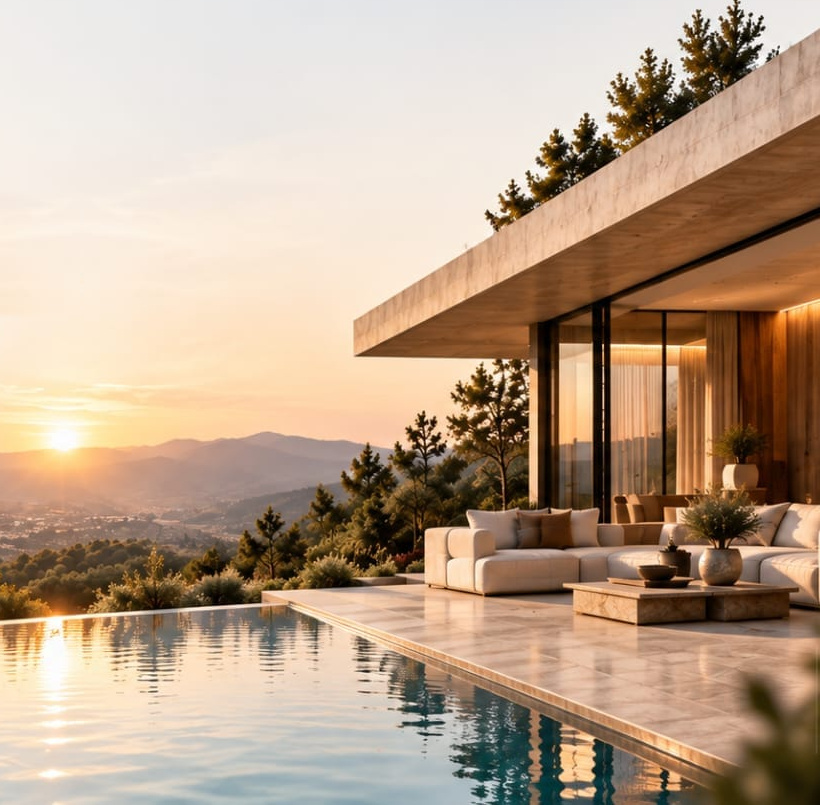
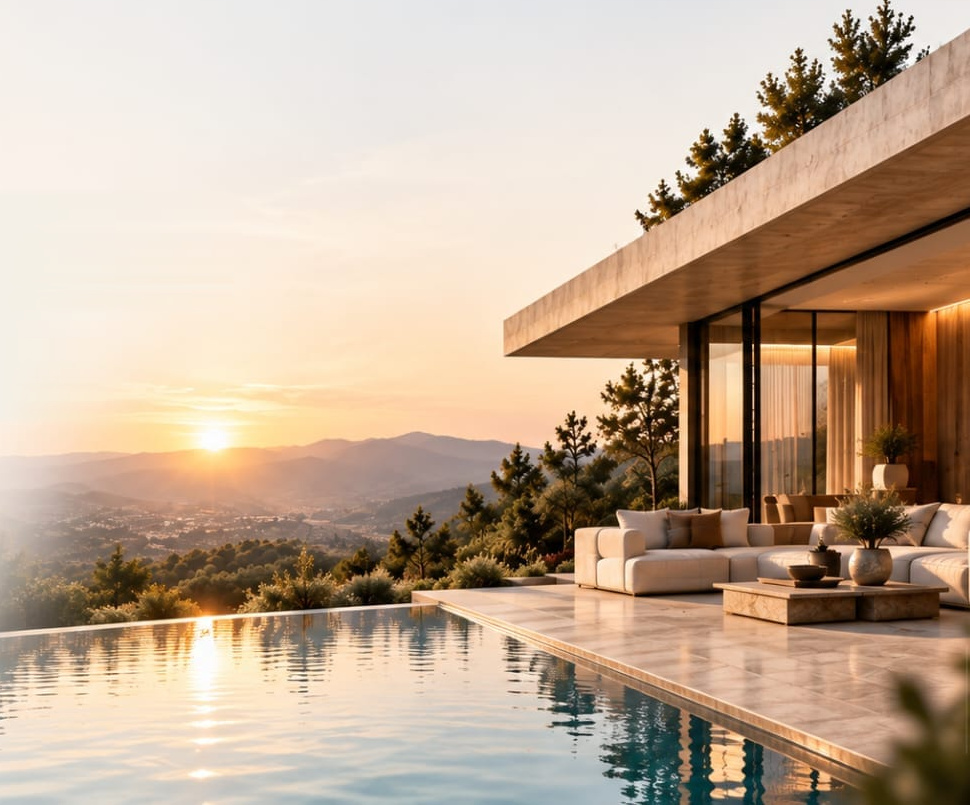
Picture to 70%, and the rising sun is actually visible
Widening alone would have hidden the sun, not shown it. The image column's
left edge moves further left as it grows, and the sun sits near the left
edge of the frame — which is exactly where the text overlaps. So the crop
was rebuilt first.

It now starts at x 470 rather than x 900, which puts the sun 22% into the
frame instead of 7%. Two bands of headline reach into that area: x 470-700
at y 290-402, and x 470-566 at y 398-512. Both are smooth sky and haze
already fading toward paper at the left, so each row is rebuilt as a
gradient from the paper ground to the first clean pixel on its right. A
mirror was wrong here — it would have duplicated the horizon; a gradient
cannot, because there is no structure to repeat.

The headline yields: 5.4rem to 4.6rem, panel 46% to 42%. A 70% background
and a visible sun leave less room for type, and between the two the client
asked for the picture.

Measuring caught a real failure before this shipped. On the first pass the
amber "Deeply Lived." sat directly on the sun's glow and measured 1.34:1
against a 3.0 floor — orange on a bright sunset is close to invisible.
Narrowing the type and lengthening the wash fixed it. Swept ten viewport
widths from 1024 to 2560, taking the worst pixel behind each element:

  headline ink        13.65  (needs 3.0)
  headline amber       4.03  (needs 3.0, was 1.34)
  eyebrow muted        4.84  (needs 4.5)
  CTA ink             14.99  (needs 4.5)
  nav worst link      14.73  (needs 4.5)

diff --git a/src/components/home/hero.tsx b/src/components/home/hero.tsx
@@ -27,7 +27,7 @@ export function Hero({ image }: { image: HeroImage }) {
   return (
     <section className="relative overflow-hidden bg-paper lg:min-h-svh">
       {/* ── Text, over the wash */}
-      <div className="relative z-10 flex flex-col justify-center px-6 pb-14 pt-14 sm:px-10 sm:pt-16 lg:min-h-svh lg:max-w-[46%] lg:py-0 lg:pl-16 lg:pr-10 lg:pt-24">
+      <div className="relative z-10 flex flex-col justify-center px-6 pb-14 pt-14 sm:px-10 sm:pt-16 lg:min-h-svh lg:max-w-[42%] lg:py-0 lg:pl-16 lg:pr-10 lg:pt-24">
         <p className="u-mono leading-[1.9] text-muted">
           Spaces for a
           <br />
@@ -35,7 +35,7 @@ export function Hero({ image }: { image: HeroImage }) {
         </p>
         <span aria-hidden className="mt-5 block h-px w-20 bg-line" />
 
-        <h1 className="mt-10 text-[clamp(2.75rem,5.6vw,5.4rem)] leading-[1.06] text-ink">
+        <h1 className="mt-10 text-[clamp(2.6rem,4.8vw,4.6rem)] leading-[1.08] text-ink">
           Thoughtfully&nbsp;Built,
           <span className="mt-1 block text-accent-ink">Deeply&nbsp;Lived.</span>
         </h1>
@@ -62,14 +62,14 @@ export function Hero({ image }: { image: HeroImage }) {
 
       {/* ── The photograph. In flow beneath the text on small screens; at lg it
              fills the right of the section and washes into the paper. */}
-      <div className="relative aspect-4/3 w-full sm:aspect-16/9 lg:absolute lg:inset-y-0 lg:right-0 lg:aspect-auto lg:w-[60%]">
+      <div className="relative aspect-4/3 w-full sm:aspect-16/9 lg:absolute lg:inset-y-0 lg:right-0 lg:aspect-auto lg:w-[70%]">
         <Image
           src={image.src}
           alt={image.alt}
           fill
           priority
           fetchPriority="high"
-          sizes="(min-width: 1024px) 60vw, 100vw"
+          sizes="(min-width: 1024px) 70vw, 100vw"
           className="object-cover object-left"
         />
 
@@ -83,7 +83,7 @@ export function Hero({ image }: { image: HeroImage }) {
         */}
         <div
           aria-hidden
-          className="absolute inset-0 bg-gradient-to-b from-paper from-0% via-paper/80 via-15% to-transparent to-34% lg:bg-gradient-to-r"
+          className="absolute inset-0 bg-gradient-to-b from-paper from-0% via-paper/92 via-13% to-transparent to-27% lg:bg-gradient-to-r"
         />
         <div
           aria-hidden

diff --git a/src/lib/home-showcase.ts b/src/lib/home-showcase.ts
@@ -26,7 +26,7 @@ import { join } from "node:path";
  */
 const HERO = {
   file: "01-hillside-villa-sunset.jpeg",
-  alt: "A villa on a wooded hillside at sunset, its deep stone roof cantilevered over a terrace of pale paving, with a low linen sofa and olive trees along the roof edge, an infinity pool in the foreground and a valley falling away behind.",
+  alt: "A villa on a wooded hillside at sunrise, the sun low over distant ranges and its light running down an infinity pool in the foreground, with a deep stone roof cantilevered over a terrace of pale paving, a low linen sofa, and a valley falling away below.",
 } as const;
 
 const SHOWCASE_DIR = join("images", "home", "showcase");
